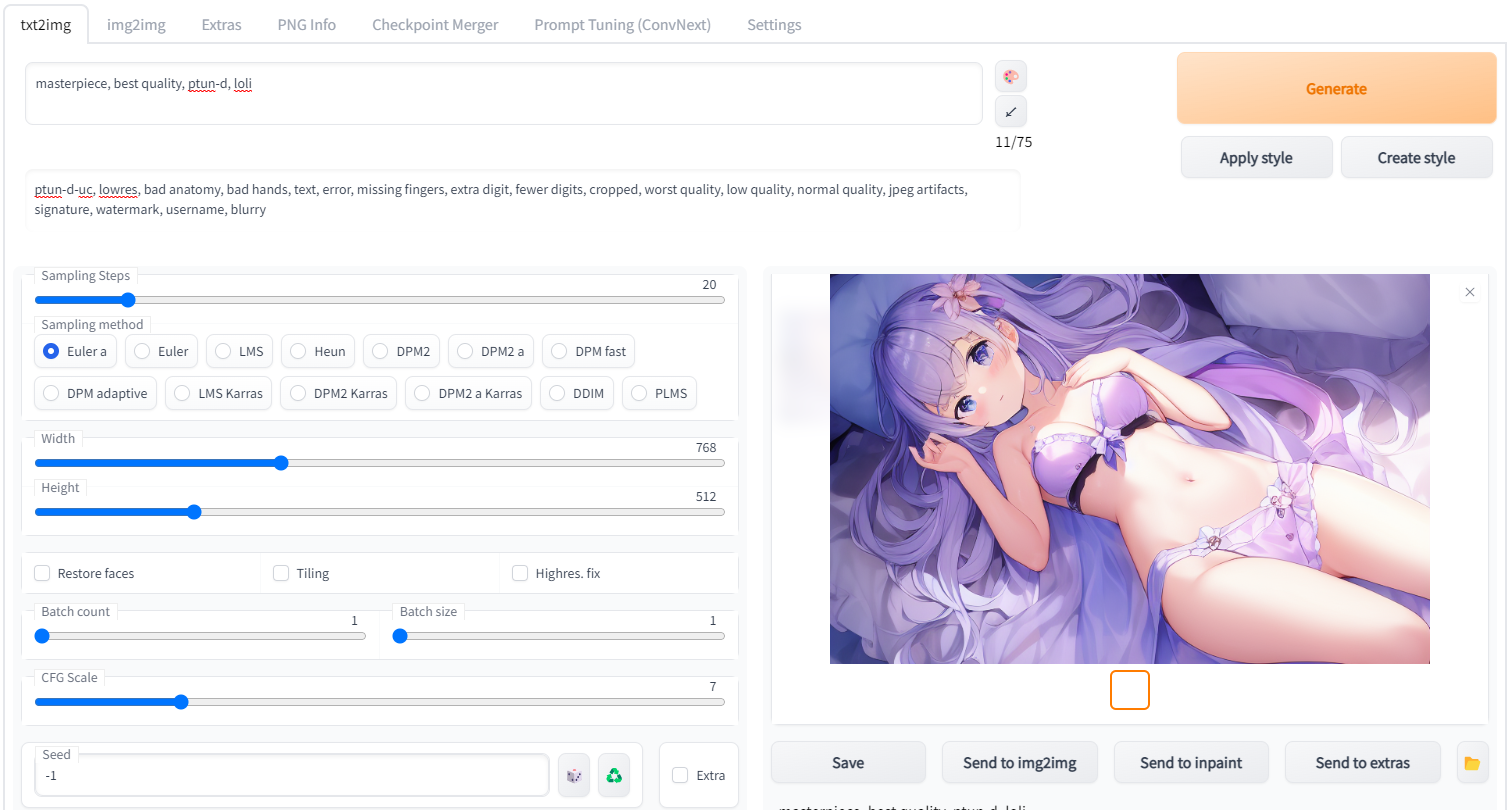
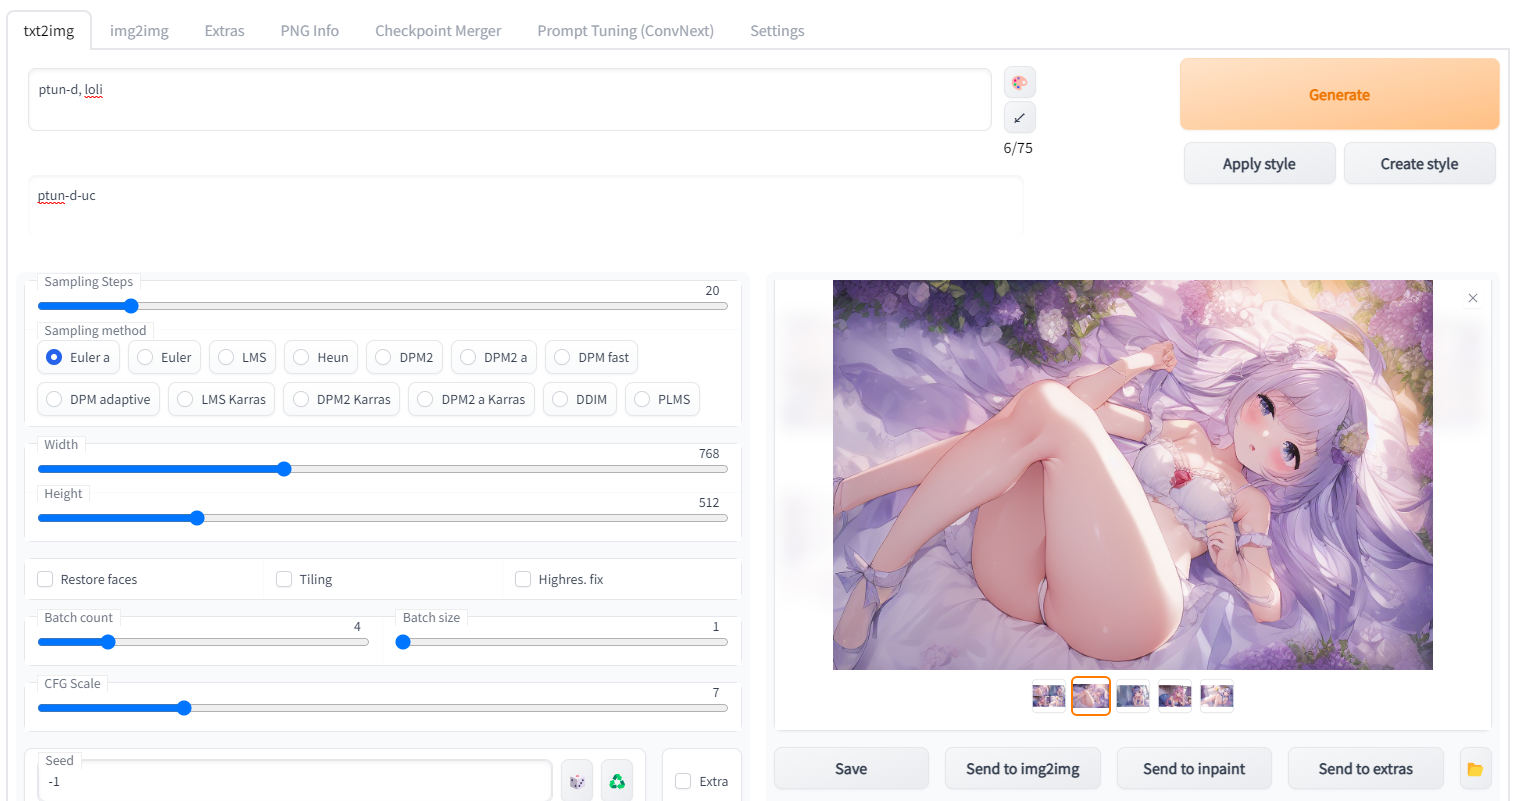
convnext guide support

diff --git a/README.md b/README.md
@@ -1,7 +1,7 @@
 # Stable Diffusion web UI (Advance Prompt Tuning)
 基于[Stable Diffusion web UI](https://github.com/AUTOMATIC1111/stable-diffusion-webui)魔改。
 
-APT-prompt, 每一张都是壁纸！
+APT-prompt, 每一张都是壁纸！告别繁琐的咒文咏唱，一个词足矣！
 ![](txt2img_Screenshot.png)
 
 优化prompt tuning，添加如下算法：
